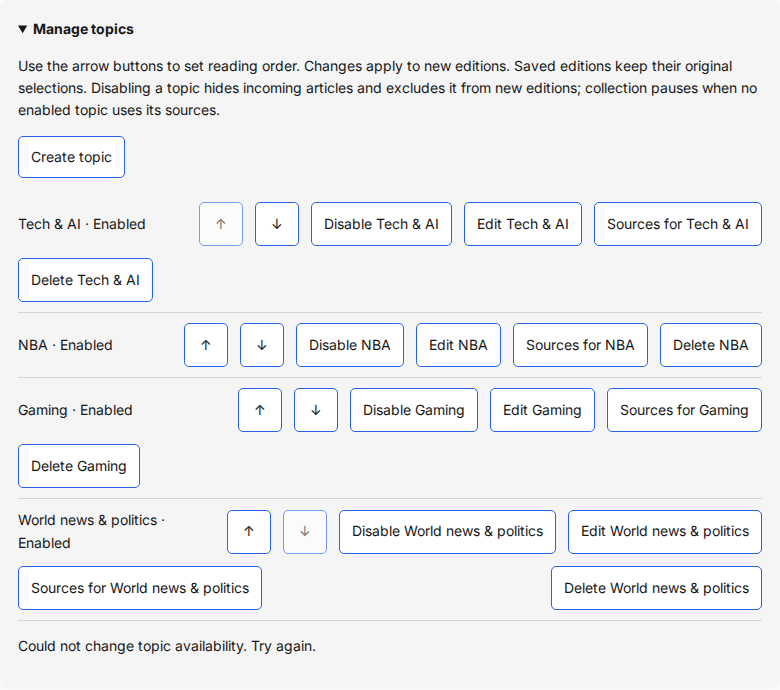
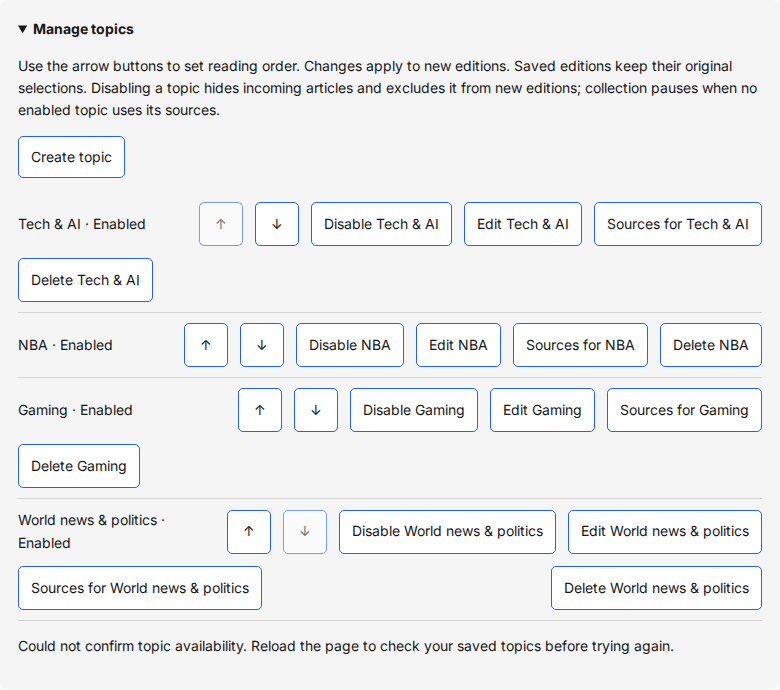
Clarify interrupted topic availability changes and verify recovery

Changed region(s): [[0.3077, 0.913, 0.8615, 0.9435], [0.1231, 0.913, 0.1846, 0.9435]]

diff --git a/scripts/smoke-topic-availability.ts b/scripts/smoke-topic-availability.ts
@@ -47,6 +47,7 @@ async function smoke() {
       assert.ok(original, 'Need an enabled topic for browser verification');
       let fail = true;
       let writes = 0;
+      let saveBeforeAbort = false;
       await page.route('**/*', async (route) => {
         const request = route.request();
         const path = new URL(request.url()).pathname;
@@ -66,10 +67,11 @@ async function smoke() {
             enabled,
           });
           writes++;
-          if (fail) return route.fulfill({ status: 503, json: {} });
+          if (fail) return route.fulfill({ status: 503, body: 'Unavailable' });
           const updated = { ...original, enabled };
           topics[topics.findIndex((topic) => topic.id === original.id)] =
             updated;
+          if (saveBeforeAbort) return route.abort('failed');
           return route.fulfill({ json: updated });
         }
         if (!['GET', 'HEAD'].includes(request.method())) {
@@ -105,7 +107,7 @@ async function smoke() {
       await disable.click();
       await page
         .getByRole('status')
-        .filter({ hasText: 'Could not change topic availability.' })
+        .filter({ hasText: 'Could not confirm topic availability.' })
         .waitFor();
       assert.ok(await disable.isEnabled());
       assert.ok(
@@ -163,6 +165,45 @@ async function smoke() {
         })
         .waitFor();
       assert.equal(writes, 3);
+      saveBeforeAbort = true;
+      await disable.click();
+      await page
+        .getByRole('status')
+        .filter({
+          hasText: 'Topic availability may have changed.',
+        })
+        .waitFor();
+      await page.locator('.topic-settings').screenshot({
+        path: `docs/screenshots/topic-availability-interrupted-${device}.png`,
+      });
+      await page.reload();
+      await page.getByText('Manage topics', { exact: true }).click();
+      await page
+        .getByRole('button', {
+          name: `Enable ${original.name}`,
+          exact: true,
+        })
+        .waitFor();
+      assert.equal(
+        await page
+          .locator('.topic-grid')
+          .getByRole('heading', {
+            name: original.name,
+            exact: true,
+          })
+          .count(),
+        0,
+      );
+      assert.equal(
+        writes,
+        4,
+        'Reload recovers saved availability without retry',
+      );
+      // Restore replay state to check editor protection without another write.
+      topics[topics.findIndex((topic) => topic.id === original.id)] = original;
+      await page.reload();
+      await page.getByText('Manage topics', { exact: true }).click();
+      await disable.waitFor();
       await page
         .getByRole('button', { name: `Edit ${original.name}`, exact: true })
         .click();
@@ -185,7 +226,7 @@ async function smoke() {
         savedEdition,
       );
     console.log(
-      'Topic availability: desktop/mobile failure, retry, disable, reload, enable, editor protection passed; live topics/profile/edition unchanged, browser writes guarded and credentials absent.',
+      'Topic availability: desktop/mobile failure, retry, disable, reload, enable, lost-response recovery, editor protection passed; live topics/profile/edition unchanged, browser writes guarded and credentials absent.',
     );
   } finally {
     await browser.close();

diff --git a/apps/web/src/TopicSettings.tsx b/apps/web/src/TopicSettings.tsx
@@ -54,6 +54,7 @@ export function TopicSettings({
   async function toggle(topic: Topic) {
     setBusy(true);
     setMessage('');
+    let responseReceived = false;
     try {
       const response = await fetch(`/api/topics/${topic.id}`, {
         method: 'PUT',
@@ -63,6 +64,7 @@ export function TopicSettings({
           enabled: !topic.enabled,
         }),
       });
+      responseReceived = true;
       if (!response.ok) throw new Error();
       const saved = topicSchema.parse(await response.json());
       onSaved(saved);
@@ -70,7 +72,11 @@ export function TopicSettings({
         `${saved.name} ${saved.enabled ? 'enabled' : 'disabled'}. Changes apply to incoming articles and new editions.`,
       );
     } catch {
-      setMessage('Could not change topic availability. Try again.');
+      setMessage(
+        responseReceived
+          ? 'Could not confirm topic availability. Reload the page to check your saved topics before trying again.'
+          : 'The connection was interrupted. Topic availability may have changed. Reload the page to check your saved topics before trying again.',
+      );
     } finally {
       setBusy(false);
     }

diff --git a/PROGRESS.md b/PROGRESS.md
@@ -1,23 +1,3 @@
-## 2026-11-05: iteration 799 — verify topic availability recovery safely
-
-- Started clean on main; no leftover work. Health/database/Redis green, all four app services active and 36 sources healthy. No failed digest jobs; two historical ingestion counters have no retained runs. One pending memory warning, zero firing alerts.
-- Availability replay now takes protected Node snapshots, disables service workers, blocks unexpected browser writes with an explicit probe and checks browser credential absence. Final checks compare full saved edition/topics/profile.
-- Desktop/mobile failed disable keeps incoming content visible; retry hides it, reload preserves disabled state, enable restores content and survives reload. Open-editor protection, zero page errors and no overflow verified; both failure screenshots inspected. Live data unchanged.
-- Verification: pnpm format; pnpm lint:fix; pnpm check; smoke-topic-availability.ts; smoke-admin-gate.ts; git diff --check. All passed (exit 0): static checks, 497 unit and 214 isolated integration tests, desktop/mobile replay, admin gate and diff check.
-- TASKS/access decision updated. SOURCES/NEEDS_FROM_HUMAN unchanged: no source changes or new blockers. No paid calls, live writes or runtime/config/schema/model/provider changes; no restart required under STEERING 22.
-- Next FIRST: Nov 5 15:00 UTC NBA/grouping/cost/latency review, fallback before scorer; X rounds after 21:00 UTC Nov 5/6. Admin identity/proxy verification remains pending.
-- Final health green; memory warning cleared, zero pending/firing alerts.
-
-## 2026-11-05: iteration 800 — verify news-query recovery safely
-
-- Started clean on main; no leftover work. Health/database/Redis green, all four app services active, 36 sources healthy and no failed retained runs; zero alerts. Next scheduled edition 15:00 UTC.
-- News-query replay now uses protected Node profile/status snapshots, disables service workers, blocks unexpected browser writes with an explicit probe and checks browser credential absence. Final comparisons cover full saved edition/topics/profile.
-- Desktop/mobile validation errors and failed connections preserve the entered query and disconnected state; retry clears the field, exposes stored content, survives reload and disconnects. No overflow/page errors; failure screenshots inspected. Live saved data unchanged.
-- Verification: pnpm format; pnpm lint:fix; pnpm check; smoke-news-queries.ts; smoke-admin-gate.ts; check-handbook.ts admin-access; git diff --check. Initial full check terminated with exit 143 during unit tests without a reported failure; rerun passed (exit 0): static checks, 497 unit and 214 isolated integration tests. Browser, admin gate, handbook/schema and diff checks passed.
-- TASKS/access decision updated; archived iteration 784 and discarded regenerated unchanged success screenshot. SOURCES/NEEDS_FROM_HUMAN unchanged: no source changes or new blockers. No paid calls, live writes, runtime/config/schema/model/provider changes; no restart required under STEERING 22.
-- Next FIRST: Nov 5 15:00 UTC NBA/grouping/cost/latency review, fallback before scorer; X rounds after 21:00 UTC Nov 5/6. Admin identity/proxy verification remains pending.
-- Final health remains green; one pending ObservabilityMemoryBudget warning for obs-metrics.service, zero firing alerts. Recheck next iteration.
-
 ## 2026-11-05: iteration 801 — verify status refresh recovery safely
 
 - Started clean on main; no leftover work. Health/database/Redis green, four app services active, 36 active sources without errors and zero failed retained runs. Observability memory warning cleared briefly then returned pending; zero firing alerts.
@@ -143,4 +123,13 @@
 - Desktop/mobile replay covers non-JSON rejection/retry, saved positions, successful reload, and a saved reorder whose response is lost; reload recovers it without another PUT. Protected full live topics/profile/edition unchanged; browser credential/write guards pass. Interrupted screenshots inspected.
 - Verification: pnpm format; pnpm lint:fix; pnpm build; pnpm check; pnpm test:integration; smoke-topic-order.ts; smoke-admin-gate.ts; git diff --check. Static checks, 497 unit and 214 isolated integration tests pass. Full check terminated (143) at integration 149 without failures; standalone integration rerun passed (0). First browser run preceded build completion; post-build rerun passed.
 - Rebuilt app and restarted API; /healthz OK and latest reader edition returns four topics. Worker unchanged. TASKS updated; SOURCES/NEEDS_FROM_HUMAN unchanged (no source changes/new blockers). No live writes or paid calls.
+- Next FIRST: Nov 5 15:00 UTC NBA/grouping/cost/latency review, fallback before scorer; X rounds after 21:00 UTC Nov 5/6. Admin identity/proxy verification remains pending.
+
+## 2026-11-05: iteration 815 — clarify interrupted topic availability changes
+
+- Started clean on main; no leftover work. Alerts clear, four app services active, health/database/Redis green and sources healthy. No failed retained digest runs; next edition remains 15:00 UTC. Historical ingestion/social failed counters have no matching retained runs.
+- Enable/disable now warns that interrupted responses may follow a completed change and advises reloading saved topics before retrying. Unconfirmed HTTP responses also give reload guidance.
+- Desktop/mobile replay covers non-JSON rejection, retry, disable/enable persistence, completed disable with lost response, reload without another PUT and editor protection. Live topics/profile/edition unchanged; browser writes guarded and credentials absent. Interrupted screenshots inspected.
+- Verification: pnpm format; pnpm lint:fix; pnpm build; pnpm check; smoke-topic-availability.ts; smoke-admin-gate.ts; git diff --check. All passed: static checks, 497 unit and 214 isolated integration tests, desktop/mobile recovery and admin gate.
+- Rebuilt app and restarted API; /healthz OK. Worker unchanged. Archived progress 799–800 and completed markers 811–814; TASKS updated. SOURCES/NEEDS_FROM_HUMAN unchanged (no source changes/new blockers). No live settings writes or paid calls.
 - Next FIRST: Nov 5 15:00 UTC NBA/grouping/cost/latency review, fallback before scorer; X rounds after 21:00 UTC Nov 5/6. Admin identity/proxy verification remains pending.

diff --git a/docs/progress-archive/2026-11-05-iterations-799-800.md b/docs/progress-archive/2026-11-05-iterations-799-800.md
@@ -1,0 +1,19 @@
+## 2026-11-05: iteration 799 — verify topic availability recovery safely
+
+- Started clean on main; no leftover work. Health/database/Redis green, all four app services active and 36 sources healthy. No failed digest jobs; two historical ingestion counters have no retained runs. One pending memory warning, zero firing alerts.
+- Availability replay now takes protected Node snapshots, disables service workers, blocks unexpected browser writes with an explicit probe and checks browser credential absence. Final checks compare full saved edition/topics/profile.
+- Desktop/mobile failed disable keeps incoming content visible; retry hides it, reload preserves disabled state, enable restores content and survives reload. Open-editor protection, zero page errors and no overflow verified; both failure screenshots inspected. Live data unchanged.
+- Verification: pnpm format; pnpm lint:fix; pnpm check; smoke-topic-availability.ts; smoke-admin-gate.ts; git diff --check. All passed (exit 0): static checks, 497 unit and 214 isolated integration tests, desktop/mobile replay, admin gate and diff check.
+- TASKS/access decision updated. SOURCES/NEEDS_FROM_HUMAN unchanged: no source changes or new blockers. No paid calls, live writes or runtime/config/schema/model/provider changes; no restart required under STEERING 22.
+- Next FIRST: Nov 5 15:00 UTC NBA/grouping/cost/latency review, fallback before scorer; X rounds after 21:00 UTC Nov 5/6. Admin identity/proxy verification remains pending.
+- Final health green; memory warning cleared, zero pending/firing alerts.
+
+## 2026-11-05: iteration 800 — verify news-query recovery safely
+
+- Started clean on main; no leftover work. Health/database/Redis green, all four app services active, 36 sources healthy and no failed retained runs; zero alerts. Next scheduled edition 15:00 UTC.
+- News-query replay now uses protected Node profile/status snapshots, disables service workers, blocks unexpected browser writes with an explicit probe and checks browser credential absence. Final comparisons cover full saved edition/topics/profile.
+- Desktop/mobile validation errors and failed connections preserve the entered query and disconnected state; retry clears the field, exposes stored content, survives reload and disconnects. No overflow/page errors; failure screenshots inspected. Live saved data unchanged.
+- Verification: pnpm format; pnpm lint:fix; pnpm check; smoke-news-queries.ts; smoke-admin-gate.ts; check-handbook.ts admin-access; git diff --check. Initial full check terminated with exit 143 during unit tests without a reported failure; rerun passed (exit 0): static checks, 497 unit and 214 isolated integration tests. Browser, admin gate, handbook/schema and diff checks passed.
+- TASKS/access decision updated; archived iteration 784 and discarded regenerated unchanged success screenshot. SOURCES/NEEDS_FROM_HUMAN unchanged: no source changes or new blockers. No paid calls, live writes, runtime/config/schema/model/provider changes; no restart required under STEERING 22.
+- Next FIRST: Nov 5 15:00 UTC NBA/grouping/cost/latency review, fallback before scorer; X rounds after 21:00 UTC Nov 5/6. Admin identity/proxy verification remains pending.
+- Final health remains green; one pending ObservabilityMemoryBudget warning for obs-metrics.service, zero firing alerts. Recheck next iteration.

diff --git a/TASKS.md b/TASKS.md
@@ -45,13 +45,9 @@ STEERING overrides older milestone notes; implementation history is in PROGRESS.
 
 ## Done markers
 
-- [x] Topic order recovery (814): interrupted responses warn the order may have saved; desktop/mobile replay verifies reload recovers the saved order without repeating the write.
+- [x] Topic availability recovery (815): interrupted enable/disable responses advise checking saved topics; desktop/mobile replay verifies reload recovers a completed change without another write.
 
-- [x] Topic deletion recovery (813): interrupted responses warn deletion may have completed; desktop/mobile replay reloads saved topics without retry and verifies live data unchanged.
-
-- [x] Topic save outcomes (812): interrupted responses retain edits and advise checking saved topics; desktop/mobile replay verifies completed save with lost response, reload without retry, non-JSON rejection and unchanged live data.
-
-- [x] Schedule save outcomes (811): interrupted responses retain edits and advise checking saved state; desktop/mobile replay covers a saved write with lost response, reload without retry, non-JSON rejection and unchanged live data.
+- Completed iterations 811–814: [archive](docs/progress-archive/2026-11-05-completed-task-markers-815.md).
 
 - Completed iterations 807–810: [archive](docs/progress-archive/2026-11-05-completed-task-markers-811.md).
 

diff --git a/docs/progress-archive/2026-11-05-completed-task-markers-815.md b/docs/progress-archive/2026-11-05-completed-task-markers-815.md
@@ -1,0 +1,9 @@
+# Completed task markers: iterations 811–814
+
+- [x] Topic order recovery (814): interrupted responses warn the order may have saved; desktop/mobile replay verifies reload recovers the saved order without repeating the write.
+
+- [x] Topic deletion recovery (813): interrupted responses warn deletion may have completed; desktop/mobile replay reloads saved topics without retry and verifies live data unchanged.
+
+- [x] Topic save outcomes (812): interrupted responses retain edits and advise checking saved topics; desktop/mobile replay verifies completed save with lost response, reload without retry, non-JSON rejection and unchanged live data.
+
+- [x] Schedule save outcomes (811): interrupted responses retain edits and advise checking saved state; desktop/mobile replay covers a saved write with lost response, reload without retry, non-JSON rejection and unchanged live data.
